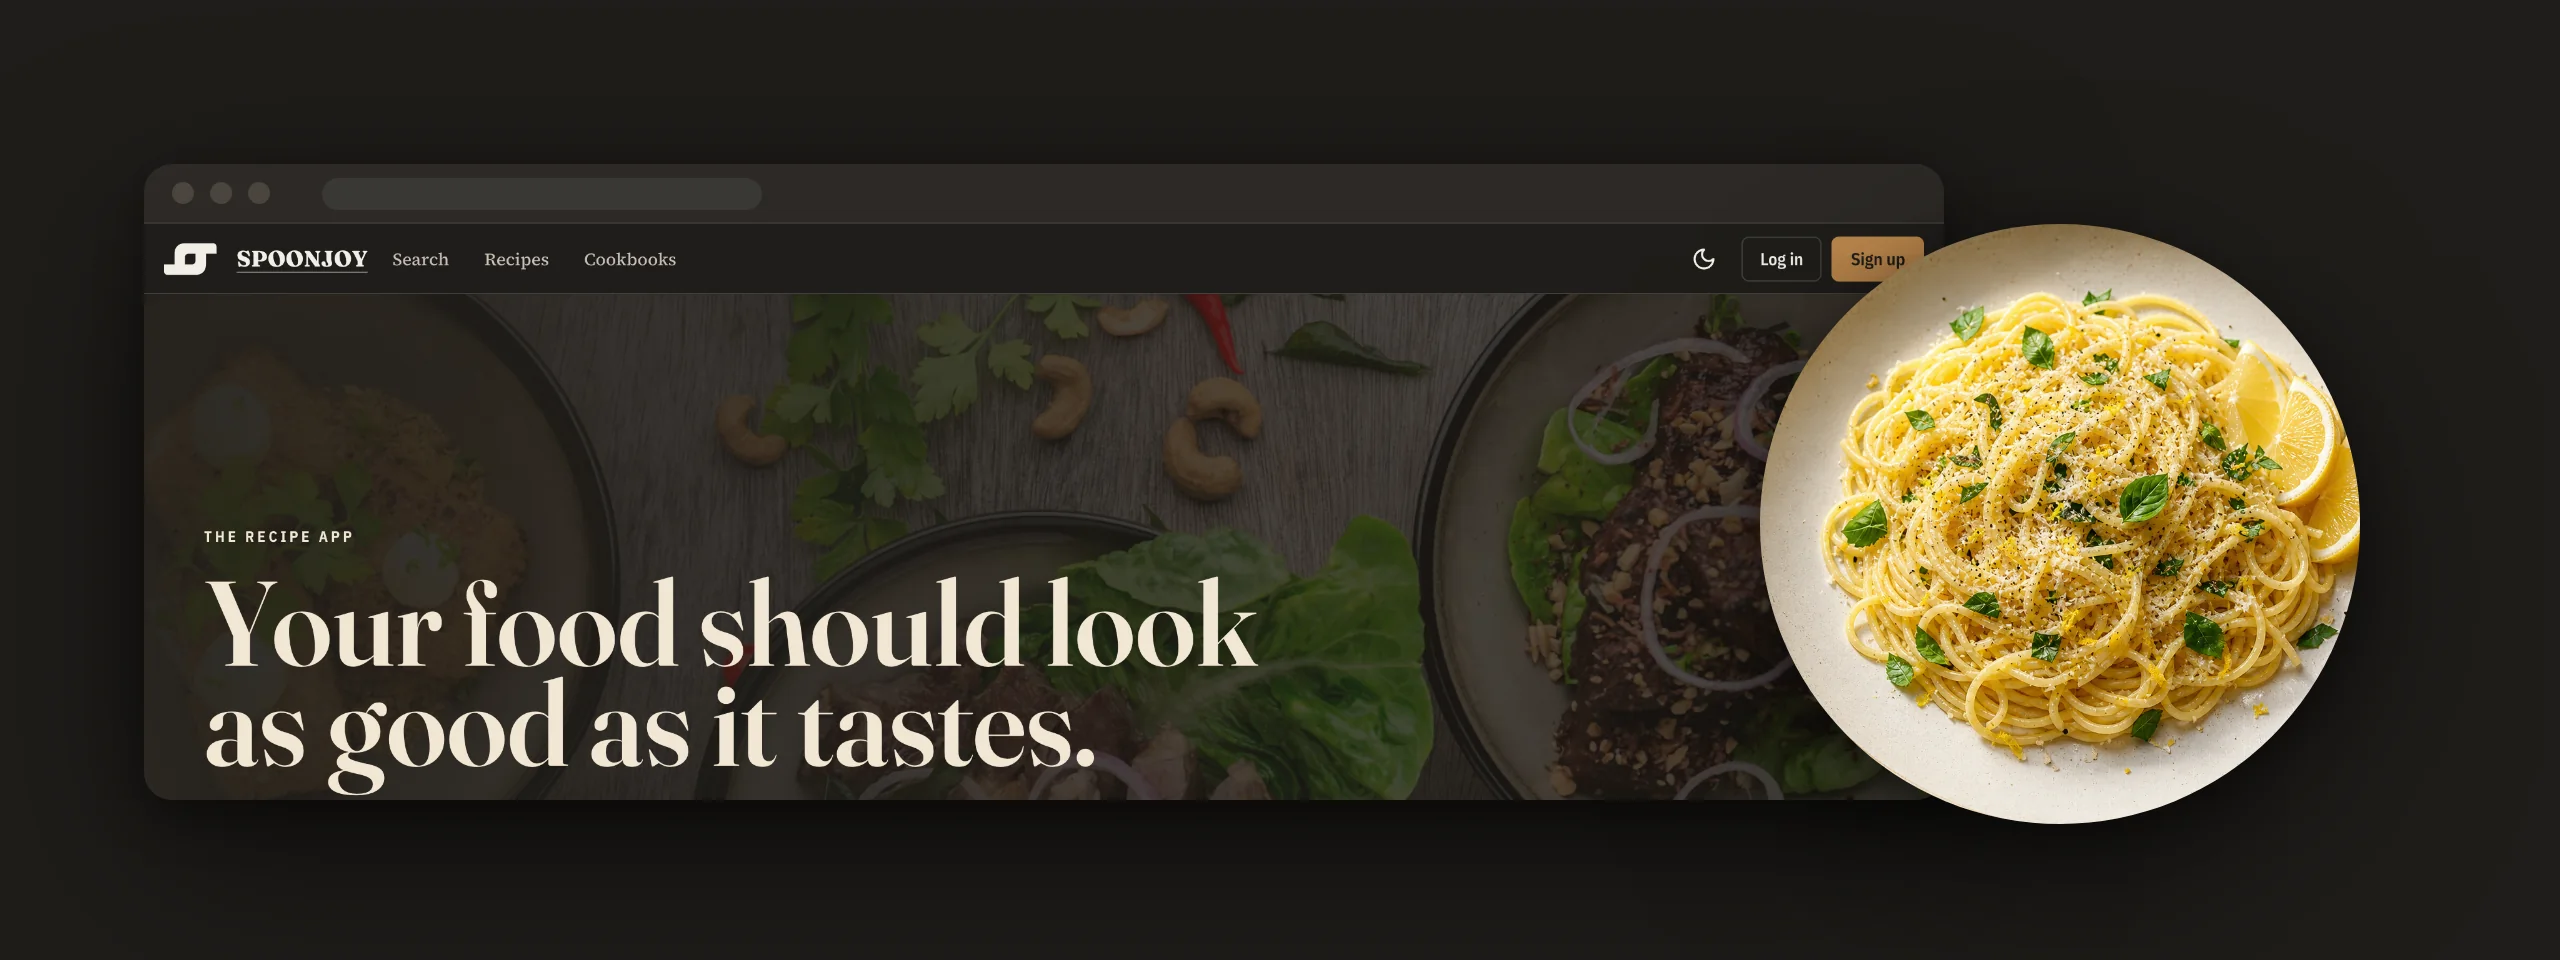
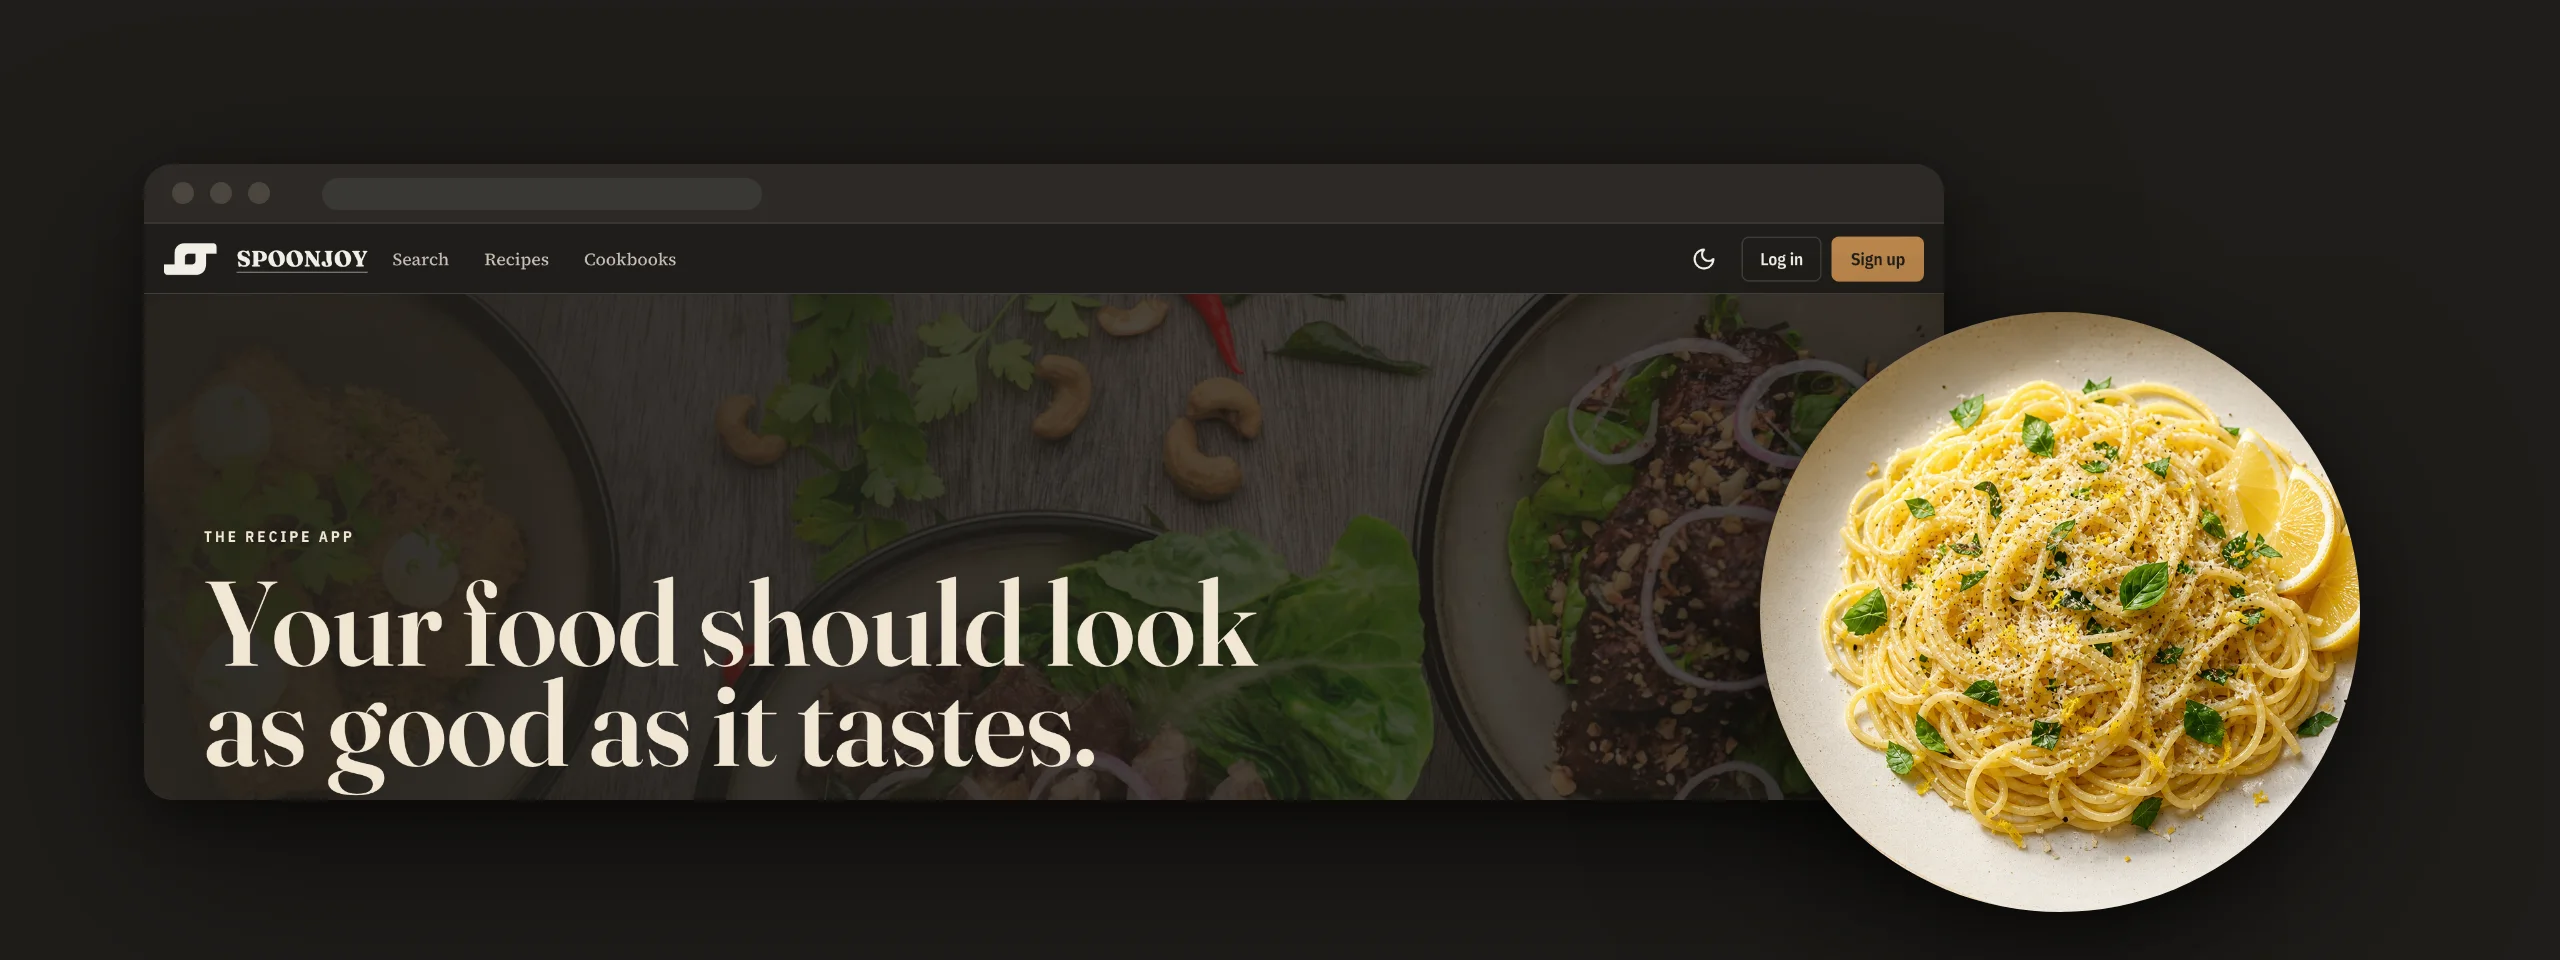
v2 header: the plate sits below the nav, clear of Sign up (#8)

Changed region(s): [[0.6875, 0.2188, 0.9375, 0.9688]]

diff --git a/brand/tools/compose.html b/brand/tools/compose.html
@@ -72,7 +72,7 @@ const A = {
       <div class="chrome"><i></i><i></i><i></i><span class="pill"></span></div>
       <img src="site-1440-${theme}.png" style="width:900px">
     </div>
-    <div class="plate shadow" style="left:880px;top:112px;width:300px;height:300px"><img src="lemon-pasta.png" style="object-position:43% 50%;transform:scale(1.08)"></div>
+    <div class="plate shadow" style="left:880px;top:156px;width:300px;height:300px"><img src="lemon-pasta.png" style="object-position:43% 50%;transform:scale(1.08)"></div>
   `,
   // Social card art for the web app: the site's headline in a narrower window, the plate at its corner.
   webog: () => `
